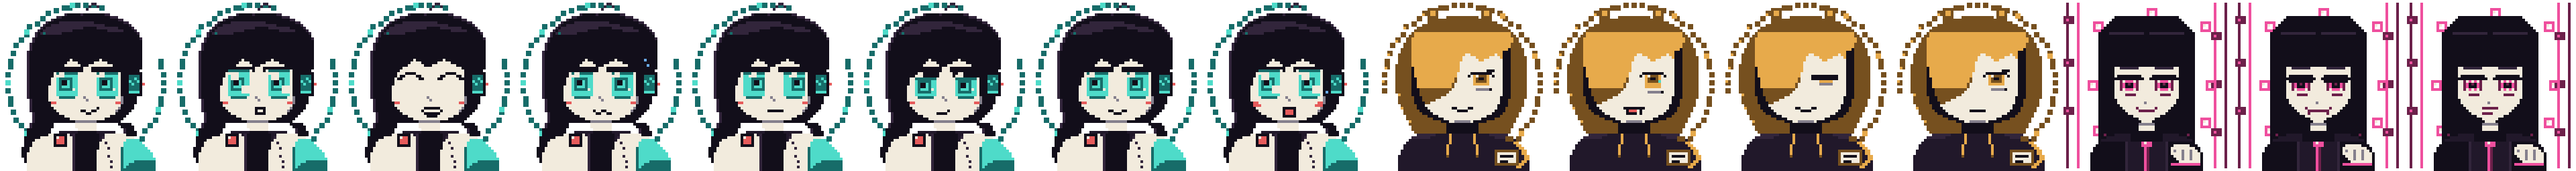
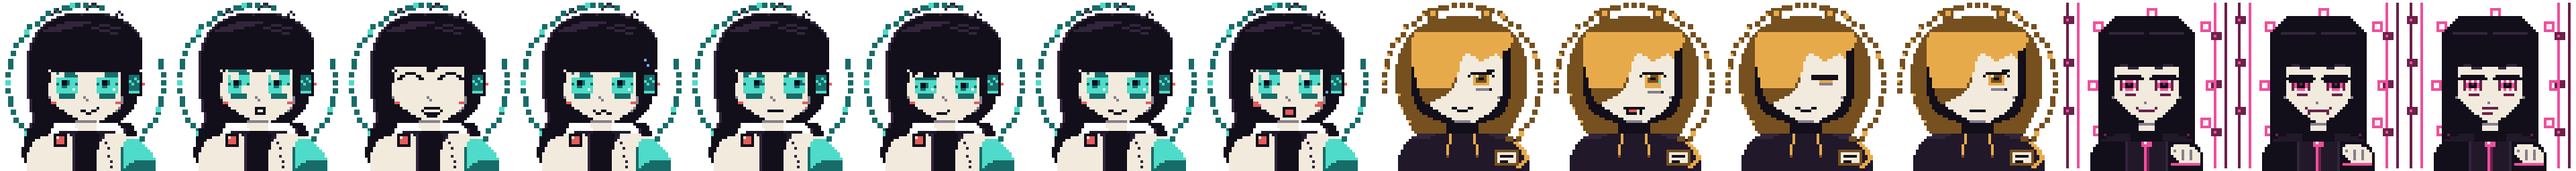
art: V3.2 sharpen character art per Helltaker roster (less round/old)
Addressed feedback that characters read too round/old-fashioned. Studied
Helltaker's diverse cast for modern angular cues and applied to all three
64x64 portraits:

- Face: curved oval -> straight-edged V jaw with a pointed chin + jaw-corner
  shadow accent (Echo, Seek, NOA)
- Echo hair: smooth-helmet fringe -> layered fringe that covers the forehead
  but drops a sharp center strand + pointed side locks; crown cowlick spikes;
  angular streaked sheen instead of a smooth highlight band
- Eyes: added upturned outer-corner flick + almond inner-corner clip; shrank
  the big square reception ring into a compact pupil dial (was reading as
  goggles)
- Brows: sharp angular; Echo asymmetric (canon), NOA perfectly mirrored (cold)
- Character intent kept: Echo stays bright/waiting (not cocky), Seek sly,
  NOA cold-precise; SD chibi left round (genre-appropriate, matches
  Helltaker/Jigen Tsuushin)

Portraits + 15 expressions rebuilt (uniqueness held), keyart/marketing
auto-updated. art.inc contract unchanged, gcc syntax OK. Details in docs/43 §13.

Claude-Session: https://claude.ai/code/session_01TeWGjjLpVpQpwxbJRdvbRY

diff --git a/tools/build_art.py b/tools/build_art.py
@@ -133,68 +133,77 @@ def echo_portrait(expression: int = 0) -> Canvas:
     # ahoge: one clean antenna strand curving right
     q.px(32, 3, B); q.px(33, 2, B); q.px(34, 1, B); q.px(35, 1, B); q.px(36, 2, B)
 
+    # Sharp modern face: full cheeks, then a straight-edged V jaw to a pointed chin.
     face = [
         (16, 22, 41), (17, 21, 43), (18, 20, 44), (19, 19, 45),
-        (20, 19, 45), (21, 18, 46), (22, 18, 46), (23, 18, 46),
-        (24, 17, 46), (25, 17, 46), (26, 17, 46), (27, 17, 46),
-        (28, 17, 46), (29, 17, 46), (30, 17, 46), (31, 17, 46),
-        (32, 17, 46), (33, 17, 46), (34, 17, 46), (35, 18, 46),
-        (36, 18, 45), (37, 18, 45), (38, 19, 45), (39, 19, 44),
-        (40, 20, 44), (41, 21, 43), (42, 22, 42), (43, 24, 40),
-        (44, 26, 38), (45, 28, 35),
+        (20, 18, 46), (21, 18, 46), (22, 17, 47), (23, 17, 47),
+        (24, 17, 47), (25, 17, 47), (26, 17, 47), (27, 17, 47),
+        (28, 17, 47), (29, 17, 47), (30, 17, 47), (31, 17, 47),
+        (32, 17, 47), (33, 17, 47), (34, 18, 47), (35, 18, 46),
+        (36, 18, 46), (37, 19, 45), (38, 20, 45), (39, 21, 44),
+        (40, 22, 43), (41, 24, 42), (42, 25, 41), (43, 27, 39),
+        (44, 29, 38), (45, 31, 36), (46, 32, 35),
     ]
     for y, x0, x1 in face:
         runs(q, y, [(x0, x1, W)])
+    # jaw-corner accent: a 1px shadow where cheek turns into the angular jaw
+    q.px(18, 36, D); q.px(46, 36, D)
 
+    # Sharp layered fringe: a spiky lower edge above the eyes + a center strand
+    # between them + pointed side locks. This kills the smooth-helmet read.
     bang_rows = [
         (13, [(13, 51, B)]), (14, [(12, 52, B)]), (15, [(12, 52, B)]),
         (16, [(11, 52, B)]), (17, [(11, 52, B)]), (18, [(11, 51, B)]),
-        (19, [(10, 51, B)]), (20, [(10, 50, B)]), (21, [(10, 49, B)]),
-        (22, [(10, 25, B), (27, 36, B), (38, 49, B)]),
-        (23, [(10, 24, B), (29, 34, B), (40, 48, B)]),
-        (24, [(10, 23, B), (30, 32, B), (42, 48, B)]),
-        (25, [(10, 21, B), (44, 48, B)]),
-        (26, [(10, 20, B), (45, 48, B)]),
-        (27, [(10, 19, B), (45, 48, B)]), (28, [(10, 19, B), (45, 48, B)]),
-        (29, [(10, 18, B), (45, 48, B)]), (30, [(10, 18, B), (45, 47, B)]),
-        (31, [(10, 18, B), (45, 47, B)]), (32, [(10, 17, B), (45, 47, B)]),
+        (19, [(10, 51, B)]), (20, [(10, 50, B)]), (21, [(10, 50, B)]),
+        (22, [(10, 50, B)]), (23, [(10, 50, B)]), (24, [(10, 50, B)]),
+        # forehead stays covered; only a sharp center strand + side locks drop between the eyes
+        (25, [(10, 18, B), (31, 34, B), (45, 48, B)]),
+        (26, [(10, 17, B), (31, 33, B), (45, 48, B)]),
+        (27, [(10, 18, B), (45, 48, B)]), (28, [(10, 18, B), (45, 48, B)]),
+        (29, [(10, 18, B), (45, 47, B)]), (30, [(10, 18, B), (45, 47, B)]),
+        (31, [(10, 17, B), (45, 47, B)]), (32, [(10, 17, B), (45, 47, B)]),
         (33, [(10, 17, B), (45, 47, B)]), (34, [(10, 17, B), (45, 47, B)]),
         (35, [(10, 16, B), (45, 47, B)]), (36, [(10, 16, B), (46, 47, B)]),
-        (37, [(11, 16, B), (46, 47, B)]), (38, [(11, 16, B), (46, 46, B)]),
-        (39, [(11, 15, B), (46, 46, B)]), (40, [(12, 15, B)]),
-        (41, [(12, 14, B)]), (42, [(13, 14, B)]),
+        (37, [(11, 16, B), (46, 47, B)]), (38, [(11, 15, B), (46, 46, B)]),
+        (39, [(11, 15, B), (46, 46, B)]), (40, [(11, 14, B)]),
+        (41, [(12, 14, B)]), (42, [(12, 13, B)]),
     ]
     for y, spans in bang_rows:
         runs(q, y, spans)
-    for y, x0, x1 in [(8, 22, 34), (9, 19, 38), (10, 17, 30), (11, 16, 26), (12, 15, 22)]:
+    # sharp cowlick spikes on the crown (modern anime silhouette, not a dome)
+    q.px(19, 5, B); q.px(20, 4, B); q.px(21, 3, B); q.px(22, 4, B)
+    q.px(43, 5, B); q.px(44, 4, B); q.px(45, 5, B)
+    # angular streaked sheen instead of a smooth highlight band
+    for y, x0, x1 in [(8, 24, 33), (9, 21, 30), (10, 18, 26), (11, 16, 22)]:
         runs(q, y, [(x0, x1, S)])
-    q.rect(36, 10, 8, 1, S); q.rect(40, 11, 6, 1, S)
+    q.line(34, 10, 43, 12, S); q.line(37, 9, 44, 10, S)
 
-    def eye(x0, y0, w_, mode="open", dx=0):
+    def eye(x0, y0, w_, mode="open", dx=0, side="L"):
+        outer = x0 - 1 if side == "L" else x0 + w_          # corner away from nose
         if mode == "closed":
             q.rect(x0, y0 + 4, 2, 1, B); q.rect(x0 + 1, y0 + 3, 2, 1, B)
             q.rect(x0 + 3, y0 + 2, w_ - 6, 1, B)
             q.rect(x0 + w_ - 3, y0 + 3, 2, 1, B); q.rect(x0 + w_ - 2, y0 + 4, 2, 1, B)
+            q.px(outer, y0 + 1, B)                          # tiny upturned outer flick
             return
         lid = 1 if mode == "wide" else 2
         half = mode == "half"
         q.rect(x0, y0, w_, lid, B)
         q.px(x0 - 1, y0, B); q.px(x0 + w_, y0, B)
         q.px(x0 - 1, y0 + 1, B); q.px(x0 + w_, y0 + 1, B)
+        # upturned outer corner flick — the single biggest "sharp/modern" eye cue
+        q.px(outer + (-1 if side == "L" else 1), y0 - 1, B)
+        q.px(outer, y0 - 1, B)
         q.rect(x0 + 1, y0 + lid, w_ - 2, 11 - lid, C)
-        # reception-dial iris: concentric cyan/dark rings + pupil (Echo is a receiver).
+        # compact reception-dial iris: soft limbal shading + a tight pupil ring
+        # (not a big square frame — that read as goggles).
         cx, cy = x0 + w_ // 2 - 1 + dx, y0 + (7 if half else 6)
-        for yy in range(y0 + lid, y0 + 11):
-            for xx in range(x0 + 1, x0 + w_ - 1):
-                r = max(abs(xx - cx), abs(yy - cy))
-                if r >= 3:
-                    q.px(xx, yy, C)
-                elif r == 2:
-                    q.px(xx, yy, CD)   # the dark tuning ring
-                elif r == 1:
-                    q.px(xx, yy, C)    # inner glow
-        q.rect(cx - 1, cy - 1, 2, 2, B)      # pupil
-        q.rect(x0 + 1, y0 + lid, w_ - 2, 1, CD)   # top rim shadow
+        q.rect(x0 + 1, y0 + lid, w_ - 2, 2, CD)        # top limbal shadow
+        q.rect(x0 + 2, y0 + 10, w_ - 4, 1, CD)         # bottom limbal
+        q.px(x0 + 1, cy, CD); q.px(x0 + w_ - 2, cy, CD)  # side limbal ticks
+        q.rect(cx - 1, cy - 1, 3, 3, CD)               # tight dial ring
+        q.rect(cx - 1, cy - 1, 2, 2, B)                # pupil, offset to hold a glint
+        q.px(cx + 1, cy + 1, C)                         # inner reception glow
         if half:
             q.rect(x0, y0, w_, 4, B)
             q.rect(x0 + 1, y0 + 4, w_ - 2, 1, CD)
@@ -207,14 +216,23 @@ def echo_portrait(expression: int = 0) -> Canvas:
             q.px(x0 + 1 + dx, y0 + 3, W)              # +1 for a sparkle glint
             q.px(x0 + w_ - 3 + dx, y0 + 8, W)         # lower sparkle
         q.rect(x0 + 2, y0 + 11, w_ - 4, 1, CD)
+        # almond taper: clip the inner-nose corner into skin so it isn't a box
+        inner_top = (x0 + w_ - 2, y0 + lid) if side == "L" else (x0 + 1, y0 + lid)
+        q.px(*inner_top, W)
+        inr = x0 + w_ - 2 if side == "L" else x0 + 1
+        q.px(inr, y0 + 10, W)                     # clip inner-bottom too
+        q.px(x0 + 1 if side == "L" else x0 + w_ - 2, y0 + 10, W)  # soften outer-bottom
 
     emap = {
         0: ("open", 0), 1: ("wide", 0), 2: ("closed", 0), 3: ("open", 0),
         4: ("open", 2), 5: ("half", 0), 6: ("open", 0), 7: ("wide", 0),
     }
     mode, dx = emap[expression]
-    eye(20, 25, 10, mode, dx)
-    eye(35, 25, 10, mode, dx)
+    eye(20, 25, 10, mode, dx, "L")
+    eye(35, 25, 10, mode, dx, "R")
+    # sharp angular brows, viewer-left 1px higher (canon asymmetry)
+    q.line(21, 23, 27, 22, B); q.px(20, 24, B)
+    q.line(38, 23, 44, 24, B); q.px(45, 25, B)
 
     q.px(32, 37, D)
     if expression == 1:      # surprised o
@@ -364,12 +382,13 @@ def seek_portrait(expression: int = 0) -> Canvas:
         (24, 17, 47), (25, 17, 47), (26, 17, 47), (27, 17, 47),
         (28, 17, 47), (29, 17, 47), (30, 17, 47), (31, 17, 47),
         (32, 17, 47), (33, 17, 47), (34, 17, 47), (35, 18, 47),
-        (36, 18, 46), (37, 18, 46), (38, 19, 46), (39, 19, 45),
-        (40, 20, 45), (41, 21, 44), (42, 22, 43), (43, 24, 41),
-        (44, 26, 39), (45, 28, 36),
+        (36, 18, 46), (37, 19, 46), (38, 20, 45), (39, 21, 45),
+        (40, 22, 44), (41, 24, 43), (42, 25, 42), (43, 27, 40),
+        (44, 29, 38), (45, 31, 37), (46, 33, 36),
     ]
     for y, x0, x1 in face:
         runs(q, y, [(x0, x1, W)])
+    q.px(18, 36, D); q.px(46, 36, D)   # jaw-corner accents
 
     fr = [
         (13, 15, 50), (14, 14, 51), (15, 14, 51), (16, 14, 50),
@@ -479,12 +498,13 @@ def noa_portrait(expression: int = 0) -> Canvas:
         (24, 20, 43), (25, 20, 43), (26, 20, 43), (27, 20, 43),
         (28, 20, 43), (29, 20, 43), (30, 20, 43), (31, 20, 43),
         (32, 20, 43), (33, 20, 43), (34, 20, 43), (35, 20, 43),
-        (36, 20, 43), (37, 21, 42), (38, 21, 42), (39, 22, 41),
-        (40, 23, 40), (41, 24, 39), (42, 25, 38), (43, 27, 36),
-        (44, 29, 34), (45, 30, 33),
+        (36, 20, 43), (37, 21, 42), (38, 22, 42), (39, 23, 41),
+        (40, 24, 40), (41, 25, 39), (42, 26, 38), (43, 28, 37),
+        (44, 29, 35), (45, 31, 34), (46, 32, 33),
     ]
     for y, x0, x1 in face:
         runs(q, y, [(x0, x1, W)])
+    q.px(19, 36, D); q.px(44, 36, D)   # sharp jaw-corner accents
 
     for y, x0, x1 in [(10, 17, 46), (11, 16, 47), (12, 16, 47), (13, 15, 48),
                       (14, 15, 48), (15, 15, 48), (16, 15, 48), (17, 15, 48),
@@ -515,7 +535,8 @@ def noa_portrait(expression: int = 0) -> Canvas:
     eye(21); eye(34)
     if expression == 1:
         q.rect(21, 30, 9, 1, B); q.rect(34, 30, 9, 1, B)
-    runs(q, 25, [(22, 28, S), (35, 41, S)])
+    # sharp angled brows — cold, precise, mirrored exactly (unlike Echo's asymmetry)
+    q.line(22, 24, 28, 25, S); q.line(35, 25, 41, 24, S)
 
     q.px(31, 38, D)
     if expression == 1:

diff --git a/docs/43_ART_COMPETITIVE_RESEARCH.md b/docs/43_ART_COMPETITIVE_RESEARCH.md
@@ -284,3 +284,18 @@ Image 3: 16색 팔레트·픽셀 군집 기준. 구도는 참조하지 않음.
 - 초상 3종 눈 전면 교체(수신/조리개 링), 표정 15종 재빌드·고유성 유지. 에코 헤드셋 신호계·듀오톤 그림자.
 - 에코 SD 10포즈 눈 하이라이트·크라운 림.
 - 키아트 앙상블·에코 대기에 방송탑·정자 카운트. art.inc 계약 불변, gcc 신택스 체크 통과.
+
+## 13. 그림체 각지게 고도화 — 헬테이커 로스터 참조 샤프닝 (2026-07-17, V3.2)
+
+지적: 캐릭터가 너무 둥글둥글하고 올드했다. 헬테이커의 다양한 캐릭터(루시퍼·모데우스·판데모니카 등) 실이미지에서 확인한 **현대적 그림체 4요소**를 초상 3종에 반영했다.
+
+| 관찰(헬테이커) | 우리 반영 |
+|---|---|
+| 날카로운 V자 턱·뾰족한 턱끝(둥근 얼굴 아님) | 세 초상 얼굴을 곡선형 오벌 → **직선 모서리 V자 턱 + 1px 뾰족한 턱끝**으로 재작화, 볼→턱 전환점에 1px 그림자 accent |
+| 스파이키·레이어드 앞머리(매끈한 헬멧 아님) | 에코 프린지를 **이마를 덮되 중앙 스트랜드+옆머리만 뾰족하게 내리는** 레이어드로 교체 + 크라운 카울릭 스파이크. 매끈한 하이라이트 밴드 → 각진 사선 스트릭 |
+| 아몬드형·바깥꼬리 치켜올라간 샤프한 눈매 | 에코 눈에 **바깥꼬리 업턴 플릭 + 안쪽 코너 아몬드 클립**, 고글처럼 보이던 큰 사각 수신-링을 **컴팩트 다이얼(동공+타이트 림)**로 축소 |
+| 얇고 각진 눈썹 | 에코=비대칭 각진 눈썹(왼쪽 1px 높음, canon), 노아=**완벽 대칭 각진 눈썹**(차가운 정밀함) |
+
+캐릭터별 성격은 유지: 에코는 루시퍼식 자만으로 바꾸지 않고 밝음·기다림 유지(샤프함은 실루엣·턱·눈매로만), 시크는 후드 각도·렌즈 눈·송곳니로 사특함, 노아는 대칭 각짐으로 냉정함. SD 치비는 헬테이커·차원통신도 둥근 스타일이라 장르 정합상 유지한다.
+
+산출: 초상 3종·표정 15종 재작화(고유성 유지), 키아트(초상 사용)·마케팅 자동 반영. art.inc 계약 불변, gcc 신택스 체크 통과.

diff --git a/docs/CHANGELOG.md b/docs/CHANGELOG.md
@@ -1,5 +1,9 @@
 # 문서 변경 이력
 
+## 2026-07-17 — V3.2: 그림체 각지게 고도화(둥글둥글·올드 → 헬테이커식 샤프)
+
+"캐릭터가 너무 둥글고 올드하다"는 지적에 따라 헬테이커 캐릭터 로스터의 현대적 4요소를 초상 3종에 반영했다 — (1) 곡선 오벌 얼굴 → 직선 모서리 **V자 턱+뾰족한 턱끝**, (2) 매끈한 헬멧 앞머리 → **레이어드 스파이키 프린지**(중앙 스트랜드·옆머리 뾰족, 크라운 카울릭), (3) 큰 사각 눈 → **아몬드형 바깥꼬리 업턴 + 컴팩트 다이얼 홍채**(고글 느낌 제거), (4) **각진 눈썹**(에코 비대칭·노아 완벽대칭). 성격은 유지: 에코는 자만형으로 바꾸지 않고 밝음·기다림, 시크는 사특함, 노아는 냉정한 대칭. SD 치비는 장르 정합상 둥근 스타일 유지. 상세는 [43_ART_COMPETITIVE_RESEARCH.md](43_ART_COMPETITIVE_RESEARCH.md) §13. art.inc 계약 불변, gcc 신택스 체크 통과.
+
 ## 2026-07-17 — V3.1: 차원통신·헬테이커 실이미지 참고 수신-링 리팩토링
 
 두 레퍼런스의 실제 이미지를 직접 보며 파트별 교훈을 반영했다(모사 아님, 구도·모티프만). 《차원통신》(차원 너머 통신·수신양호·시안/마젠타 듀오)에서 **동심원 수신-링 홍채**를 도출해 초상 3종 눈을 전면 교체했다 — 에코=시안 튜닝 다이얼, 시크=호박 렌즈, 노아=완벽한 자홍 조리개(정밀함이 곧 불안). 에코 한쪽 수신기를 파형 신호계 화면으로 격상(한쪽 수신기 canon 유지), 얼굴에 차가운 듀오톤 그림자를 넣었다. 키아트에 신호 블루 격자 방송탑과 64 응답 정(正)자 카운트를 도입해 "64번의 대답" 훅을 시각화했다(화면당 큰 배경 기호 1종 규칙 준수). 에코 SD 눈에 수신 하이라이트와 크라운 림을 더했다. 헬테이커에서는 3값 대비·단일 초점 소품(LIVE 핀)·SD 가독성 원칙을 확인·유지했다(에코를 자만형으로 바꾸지 않음). 상세 분석은 [43_ART_COMPETITIVE_RESEARCH.md](43_ART_COMPETITIVE_RESEARCH.md) §12. art.inc 계약 불변, gcc 신택스 체크 통과.
